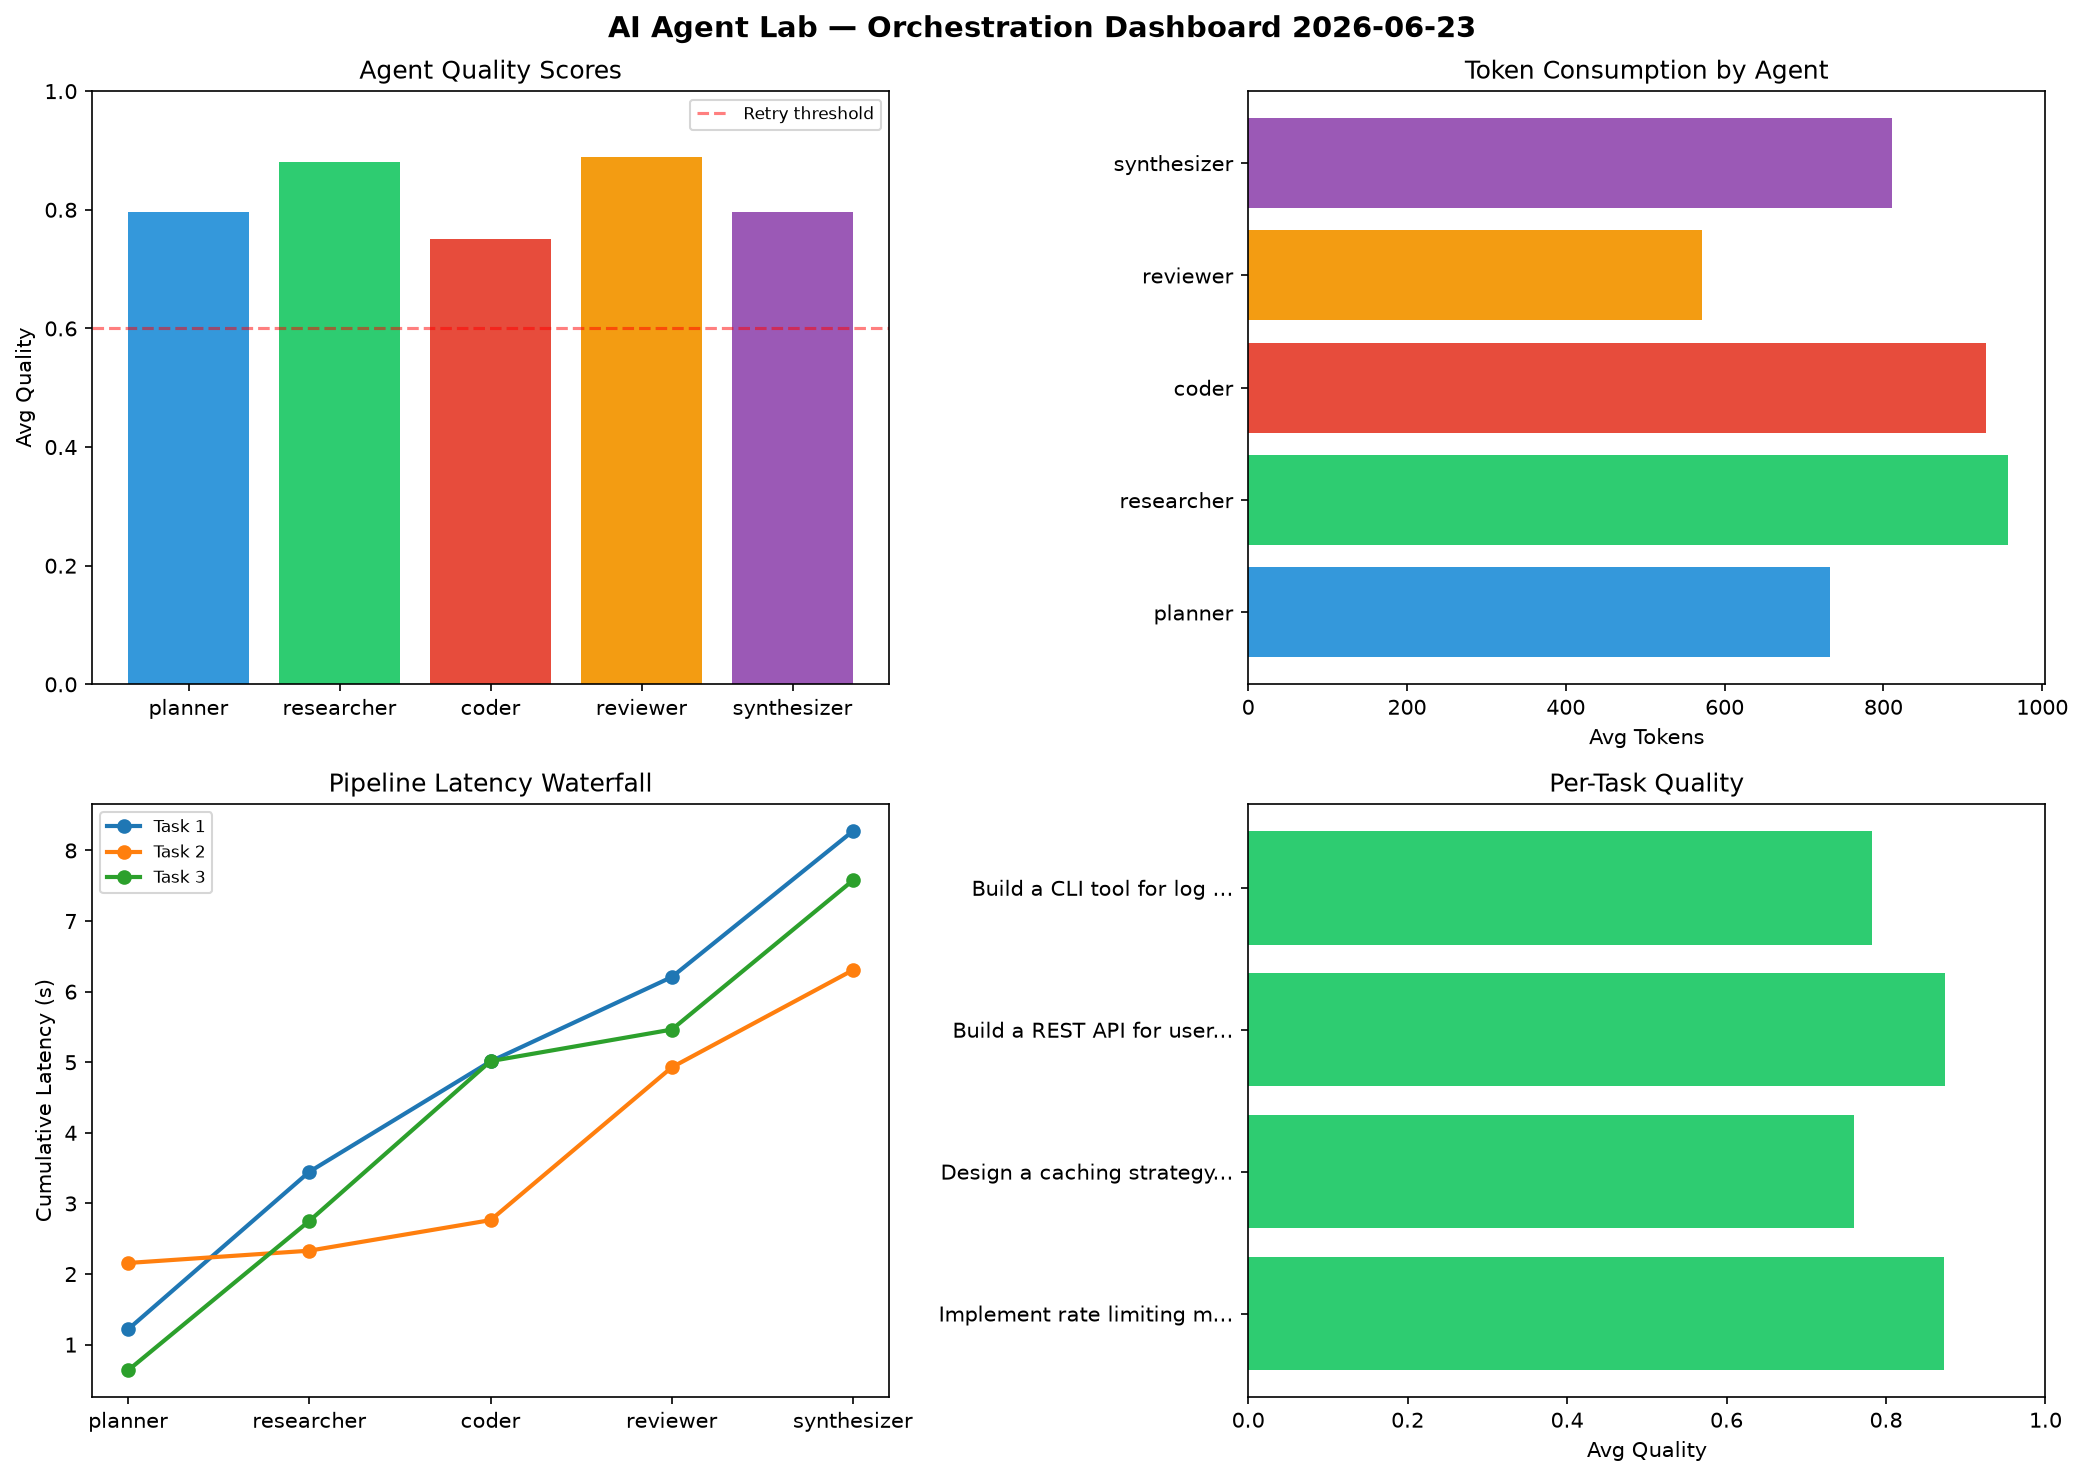
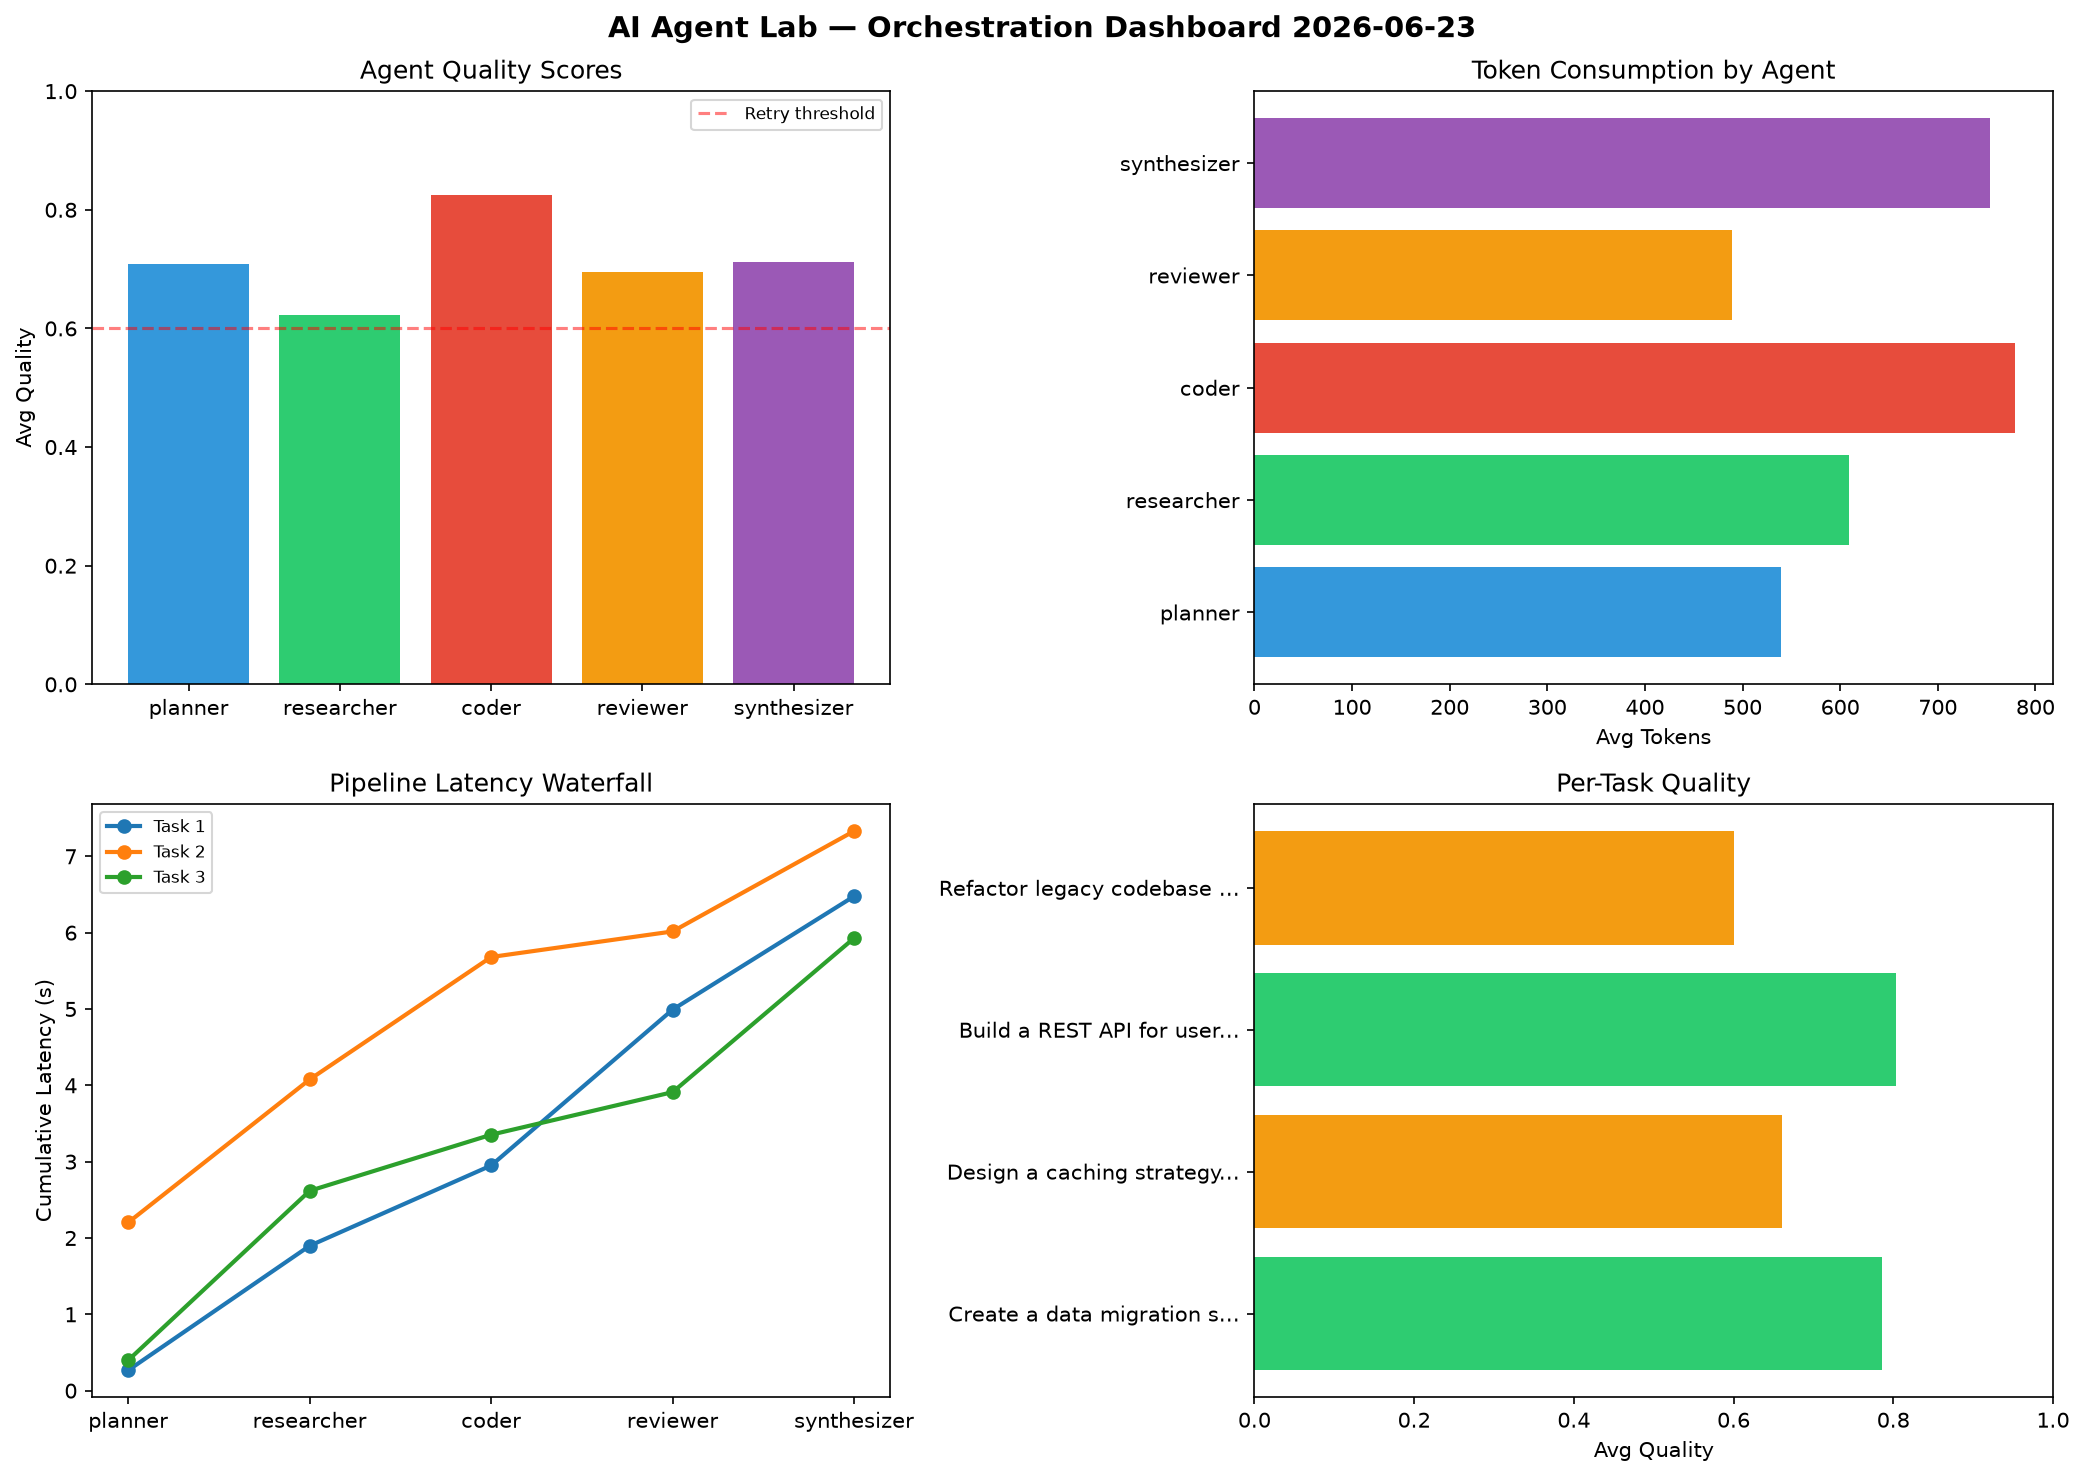
ai-agent-lab: orchestration run 2026-06-23T11:31

diff --git a/logs/2026-06-23.md b/logs/2026-06-23.md
@@ -1,6 +1,6 @@
 # AI Agent Lab — Orchestration Report 2026-06-23
 
-**Run ID:** `09ff65d5e4` | **Tasks:** 4 | **Avg Quality:** 0.822
+**Run ID:** `6f1f55e2c0` | **Tasks:** 4 | **Avg Quality:** 0.713
 
 ![Dashboard](2026-06-23_dashboard.png)
 
@@ -8,52 +8,52 @@
 
 | Metric | Value |
 |--------|-------|
-| avg_latency | 7.198 |
-| total_tokens | 16003 |
-| avg_quality | 0.822 |
+| avg_latency | 6.223 |
+| total_tokens | 12682 |
+| avg_quality | 0.713 |
 
 ## Delta vs Yesterday
 
 | Metric | Today | Yesterday | Change |
 |--------|-------|-----------|--------|
-| avg_latency | 7.198 | 6.757 | 📈 6.5% |
-| total_tokens | 16003 | 13668 | 📈 17.1% |
-| avg_quality | 0.822 | 0.709 | 📈 15.9% |
+| avg_latency | 6.223 | 6.757 | 📉 -7.9% |
+| total_tokens | 12682 | 13668 | 📉 -7.2% |
+| avg_quality | 0.713 | 0.709 | 📈 0.6% |
 
 ## Pipeline Results
 
-### Implement rate limiting middleware
+### Create a data migration script for schema v2
 | Agent | Quality | Latency | Tokens | Status |
 |-------|---------|---------|--------|--------|
-| planner | 0.827 | 1.218s | 637 | success |
-| researcher | 0.975 | 2.231s | 858 | success |
-| coder | 0.798 | 1.563s | 999 | success |
-| reviewer | 0.889 | 1.195s | 508 | success |
-| synthesizer | 0.878 | 2.068s | 933 | success |
+| planner | 0.908 | 0.267s | 654 | success |
+| researcher | 0.613 | 1.631s | 479 | success |
+| coder | 0.956 | 1.052s | 556 | success |
+| reviewer | 0.615 | 2.042s | 307 | success |
+| synthesizer | 0.84 | 1.485s | 852 | success |
 
 ### Design a caching strategy for high-traffic endpoints
 | Agent | Quality | Latency | Tokens | Status |
 |-------|---------|---------|--------|--------|
-| planner | 0.768 | 2.157s | 461 | success |
-| researcher | 0.748 | 0.174s | 1027 | success |
-| coder | 0.802 | 0.433s | 620 | success |
-| reviewer | 0.757 | 2.164s | 599 | success |
-| synthesizer | 0.726 | 1.378s | 478 | success |
+| planner | 0.683 | 2.203s | 482 | success |
+| researcher | 0.506 | 1.874s | 744 | needs_retry |
+| coder | 0.758 | 1.604s | 1013 | success |
+| reviewer | 0.664 | 0.335s | 480 | success |
+| synthesizer | 0.689 | 1.315s | 723 | success |
 
 ### Build a REST API for user authentication
 | Agent | Quality | Latency | Tokens | Status |
 |-------|---------|---------|--------|--------|
-| planner | 0.881 | 0.637s | 989 | success |
-| researcher | 0.975 | 2.116s | 882 | success |
-| coder | 0.837 | 2.263s | 1007 | success |
-| reviewer | 0.968 | 0.447s | 746 | success |
-| synthesizer | 0.708 | 2.114s | 745 | success |
+| planner | 0.604 | 0.398s | 259 | success |
+| researcher | 0.754 | 2.22s | 667 | success |
+| coder | 0.93 | 0.735s | 763 | success |
+| reviewer | 0.941 | 0.558s | 466 | success |
+| synthesizer | 0.79 | 2.018s | 229 | success |
 
-### Build a CLI tool for log analysis
+### Refactor legacy codebase to use dependency injection
 | Agent | Quality | Latency | Tokens | Status |
 |-------|---------|---------|--------|--------|
-| planner | 0.71 | 1.559s | 844 | success |
-| researcher | 0.822 | 0.505s | 1058 | success |
-| coder | 0.563 | 1.829s | 1091 | needs_retry |
-| reviewer | 0.942 | 1.155s | 432 | success |
-| synthesizer | 0.874 | 1.587s | 1089 | success |
+| planner | 0.642 | 1.339s | 762 | success |
+| researcher | 0.618 | 0.193s | 548 | success |
+| coder | 0.655 | 0.584s | 784 | success |
+| reviewer | 0.563 | 0.977s | 705 | needs_retry |
+| synthesizer | 0.528 | 2.062s | 1209 | needs_retry |
